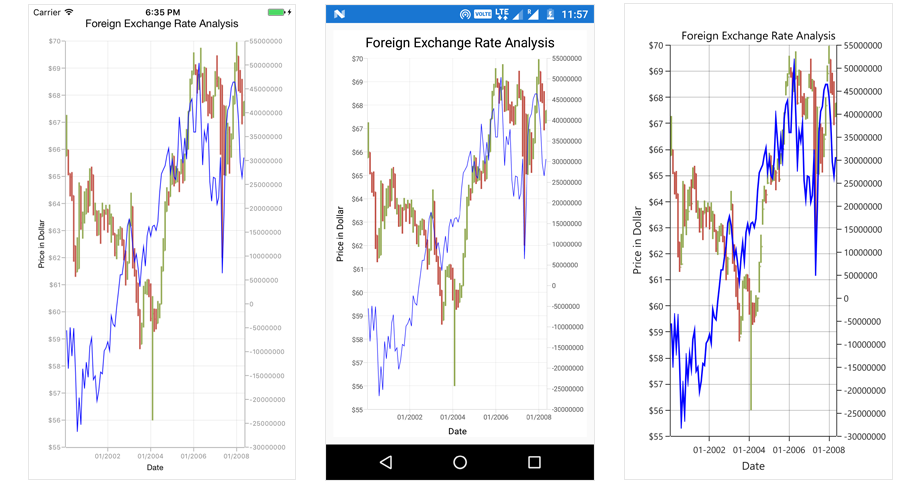
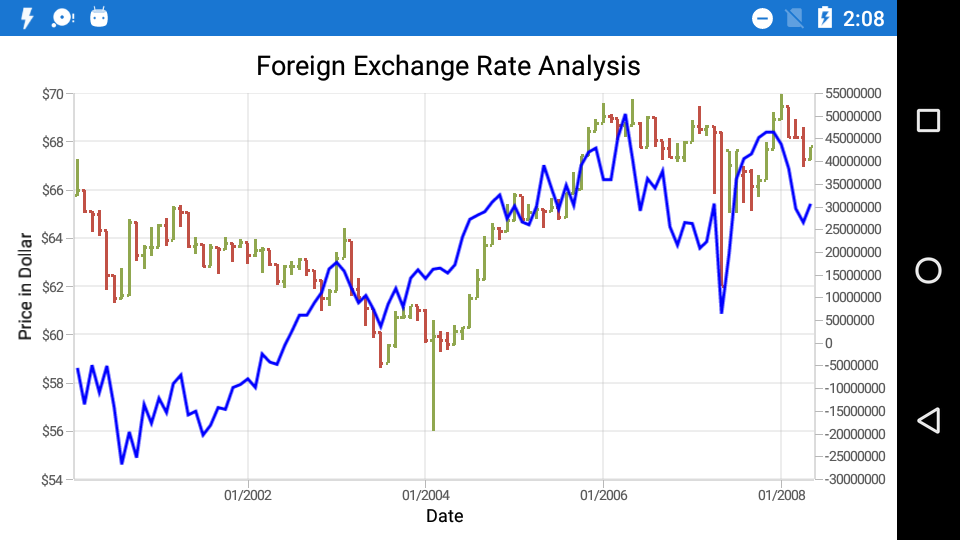
Images changed

diff --git a/Xamarin/SfChart/technicalindicators.md b/Xamarin/SfChart/technicalindicators.md
@@ -287,7 +287,7 @@ You can define the [`AverageTrueIndicator`](http://help.syncfusion.com/cr/cref_f
 <chart:SfChart>
 ...	
         <chart:SfChart.TechnicalIndicators>
-            <chart:AverageTrueIndicator ItemsSource="{Binding TechnicalIndicatorData}" Period="3" XBindingPath="Date" SignalLineColor="Purple" High="High" Low="Low" Open="Open" Close="Close"/>
+            <chart:AverageTrueIndicator ItemsSource="{Binding TechnicalIndicatorData}" Period="14" SignalLineColor="Blue" XBindingPath="XValue" High="High" Low="Low" Open="Open" Close="Close"/>
          </chart:SfChart.TechnicalIndicators>
 
 </chart:SfChart>
@@ -304,10 +304,10 @@ SfChart chart = new SfChart()
       {
           new AverageTrueIndicator()
           {
-              Period = 3,
-              SignalLineColor = Color.Purple,
+              Period = 14,
+              SignalLineColor = Color.Blue,
               ItemsSource = viewModel.TechnicalIndicatorData,
-              XBindingPath = "Date",
+              XBindingPath = "XValue",
               Open = "Open",
               High = "High",
               Low = "Low",
@@ -322,7 +322,7 @@ SfChart chart = new SfChart()
 
 The following screenshot illustrates an ATR indicator.
 
-![](technicalindicators_images/averagetrue.png)
+![](technicalindicators_images/averagetruerange.png)
 
 ## Simple moving average (SMA) indicator
 
@@ -337,7 +337,7 @@ The following code example demonstrates the usage of [`SimpleMovingAverageIndica
 <chart:SfChart>
 ...	
        <chart:SfChart.TechnicalIndicators>
-           <chart:SimpleMovingAverageIndicator ItemsSource="{Binding TechnicalIndicatorData}" Period="14" SignalLineColor="Purple" XBindingPath="XValue" High="High" Low="Low" Open="Open" Close="Close"/> 
+           <chart:SimpleMovingAverageIndicator ItemsSource="{Binding TechnicalIndicatorData}" Period="14" SignalLineColor="Blue" XBindingPath="XValue" High="High" Low="Low" Open="Open" Close="Close"/> 
         </chart:SfChart.TechnicalIndicators>
 
 </chart:SfChart>
@@ -354,7 +354,7 @@ SfChart chart = new SfChart()
           new SimpleMovingAverageIndicator()
           {
               Period = 14,
-              SignalLineColor = Color.Purple,
+              SignalLineColor = Color.Blue,
               ItemsSource = viewModel.TechnicalIndicatorData,
               XBindingPath = "XValue",
               Open = "Open",
@@ -388,7 +388,7 @@ To define the [`RSITechnicalIndicator`](http://help.syncfusion.com/cr/cref_files
 <chart:SfChart>
 ...	
         <chart:SfChart.TechnicalIndicators>
-            <chart:RSIIndicator ItemsSource="{Binding TechnicalIndicatorData}" Period="14" SignalLineColor="Purple" UpperLineColor="Blue" LowerLineColor="Red" XBindingPath="XValue" High="High" Low="Low" Open="Open" Close="Close"/>
+            <chart:RSIIndicator ItemsSource="{Binding TechnicalIndicatorData}" Period="14" SignalLineColor="Blue" UpperLineColor="Teal" LowerLineColor="Red" XBindingPath="XValue" High="High" Low="Low" Open="Open" Close="Close"/>
         </chart:SfChart.TechnicalIndicators>
 
 </chart:SfChart>
@@ -405,8 +405,8 @@ SfChart chart = new SfChart()
           new RSIIndicator()
           {
               Period = 14,
-              SignalLineColor = Color.Purple,
-              UpperLineColor = Color.Blue,
+              SignalLineColor = Color.Blue,
+              UpperLineColor = Color.Teal,
               LowerLineColor = Color.Red,
               ItemsSource = viewModel.TechnicalIndicatorData,
               XBindingPath = "XValue",
@@ -439,7 +439,7 @@ The following code example helps you to add [`AccumulationDistributionIndicator`
 <chart:SfChart>
 ...	
           <chart:SfChart.TechnicalIndicators>
-            <chart:AccumulationDistributionIndicator ItemsSource="{Binding TechnicalIndicatorData}" SignalLineColor="Purple" XBindingPath="XValue" Open="Open" High="High" Low="Low" Close="Close" Volume="Volume"/>
+            <chart:AccumulationDistributionIndicator ItemsSource="{Binding TechnicalIndicatorData}" SignalLineColor="Blue" XBindingPath="XValue" Open="Open" High="High" Low="Low" Close="Close" Volume="Volume"/>
         </chart:SfChart.TechnicalIndicators>
 
 </chart:SfChart>
@@ -455,7 +455,7 @@ SfChart chart = new SfChart()
       {
           new AccumulationDistributionIndicator()
           {
-              SignalLineColor = Color.Purple,
+              SignalLineColor = Color.Blue,
               ItemsSource = viewModel.TechnicalIndicatorData,
               XBindingPath = "XValue",
               Open = "Open",
@@ -475,19 +475,6 @@ The following screenshot illustrates an accumulation distribution technical indi
 
 ![](technicalindicators_images/accumulationdistribution.png)
 
-{% tabs %} 
-
-{% highlight xaml %}
-
-
-{% endhighlight %}
-
-{% highlight c# %}
-
-
-{% endhighlight %}
-
-{% endtabs %}
 
 ## Momentum indicator
 
@@ -501,7 +488,7 @@ You can define [`MomentumIndicator`](http://help.syncfusion.com/cr/cref_files/xa
 <chart:SfChart>
    ...	
         <chart:SfChart.TechnicalIndicators>
-            <chart:MomentumIndicator ItemsSource="{Binding TechnicalIndicatorData}" Period="14" SignalLineColor="Purple" UpperLineColor="Red" XBindingPath="XValue" High="High" Low="Low" Open="Open" Close="Close">
+            <chart:MomentumIndicator ItemsSource="{Binding TechnicalIndicatorData}" Period="14" SignalLineColor="Blue" UpperLineColor="Red" XBindingPath="XValue" High="High" Low="Low" Open="Open" Close="Close">
             </chart:MomentumIndicator>
         </chart:SfChart.TechnicalIndicators>
    ...
@@ -520,8 +507,8 @@ SfChart chart = new SfChart()
           new MomentumIndicator()
           {
               Period = 14,
-              SignalLineColor = Color.Purple,
-              UpperLineColor = Color.Blue,
+              SignalLineColor = Color.Blue,
+              UpperLineColor = Color.Red,
               ItemsSource = viewModel.TechnicalIndicatorData,
               XBindingPath = "XValue",
               Open = "Open",
@@ -569,7 +556,7 @@ SfChart chart = new SfChart()
           new StochasticIndicator()
           {
               Period = 14,
-              SignalLineColor = Color.Purple,
+              SignalLineColor = Color.Yellow,
               UpperLineColor = Color.Red,
               LowerLineColor = Color.Teal,
               PeriodLineColor = Color.DarkBlue,
@@ -601,7 +588,7 @@ The [`ExponentialMovingAverageIndicator`](https://help.syncfusion.com/cr/cref_fi
 <chart:SfChart>
 ...	
         <chart:SfChart.TechnicalIndicators>
-            <chart:ExponentialMovingAverageIndicator ItemsSource="{Binding TechnicalIndicatorData}" Period="14" SignalLineColor="Purple" XBindingPath="XValue" High="High" Low="Low" Open="Open" Close="Close"/>     
+            <chart:ExponentialMovingAverageIndicator ItemsSource="{Binding TechnicalIndicatorData}" Period="14" SignalLineColor="Blue" XBindingPath="XValue" High="High" Low="Low" Open="Open" Close="Close"/>     
         </chart:SfChart.TechnicalIndicators>
 </chart:SfChart>
 
@@ -618,7 +605,7 @@ SfChart chart = new SfChart()
           new ExponentialMovingAverageIndicator()
           {
               Period = 14,
-              SignalLineColor = Color.Purple,
+              SignalLineColor = Color.Blue,
               ItemsSource = viewModel.TechnicalIndicatorData,
               XBindingPath = "XValue",
               Open = "Open",
@@ -647,7 +634,7 @@ The [`TriangularMovingAverageIndicator`](http://help.syncfusion.com/cr/cref_file
 <chart:SfChart>
 ...	
         <chart:SfChart.TechnicalIndicators>
-            <chart:TriangularMovingAverageIndicator ItemsSource="{Binding TechnicalIndicatorData}" Period="14" SignalLineColor="Purple" XBindingPath="XValue" High="High" Low="Low" Open="Open" Close="Close"/>      
+            <chart:TriangularMovingAverageIndicator ItemsSource="{Binding TechnicalIndicatorData}" Period="14" SignalLineColor="Blue" XBindingPath="XValue" High="High" Low="Low" Open="Open" Close="Close"/>      
         </chart:SfChart.TechnicalIndicators>
 </chart:SfChart>
 
@@ -664,7 +651,7 @@ SfChart chart = new SfChart()
           new TriangularMovingAverageIndicator()
           {
               Period = 14,
-              SignalLineColor = Color.Purple,
+              SignalLineColor = Color.Blue,
               ItemsSource = viewModel.TechnicalIndicatorData,
               XBindingPath = "XValue",
               Open = "Open",
@@ -696,7 +683,7 @@ You can define the [`BollingerBandIndicator`](http://help.syncfusion.com/cr/cref
 <chart:SfChart>
 ...	
         <chart:SfChart.TechnicalIndicators>
-            <chart:BollingerBandIndicator ItemsSource="{Binding TechnicalIndicatorData}" Period="14" SignalLineColor="Purple" UpperLineColor="Red" LowerLineColor="Blue" XBindingPath="XValue" High="High" Low="Low" Open="Open" Close="Close"/>
+            <chart:BollingerBandIndicator ItemsSource="{Binding TechnicalIndicatorData}" Period="14" SignalLineColor="Blue" UpperLineColor="Red" LowerLineColor="Teal" XBindingPath="XValue" High="High" Low="Low" Open="Open" Close="Close"/>
         </chart:SfChart.TechnicalIndicators>
 </chart:SfChart>
 
@@ -713,9 +700,9 @@ SfChart chart = new SfChart()
           new BollingerBandIndicator()
           {
               Period = 14,
-              SignalLineColor = Color.Purple,
+              SignalLineColor = Color.Blue,
               UpperLineColor = Color.Red,
-              LowerLineColor = Color.Blue,
+              LowerLineColor = Color.Teal,
               ItemsSource = viewModel.TechnicalIndicatorData,
               XBindingPath = "XValue",
               Open = "Open",
@@ -748,7 +735,7 @@ You can specify the MACDTechnicalIndicator using the following code example.
 <chart:SfChart>
 ...	
         <chart:SfChart.TechnicalIndicators>
-            <chart:MACDIndicator ItemsSource="{Binding TechnicalIndicatorData}" MACDType="Both" ShortPeriod="2" LongPeriod="10" Trigger="14" SignalLineColor="Purple" XBindingPath="XValue" High="High" Low="Low" Open="Open" Close="Close"/> 
+            <chart:MACDIndicator ItemsSource="{Binding TechnicalIndicatorData}" MACDType="Both" ShortPeriod="2" LongPeriod="10" Trigger="14" SignalLineColor="Blue" HistogramColor="LightSkyBlue" MACDLineColor="Orange" XBindingPath="XValue" High="High" Low="Low" Open="Open" Close="Close"/>
         </chart:SfChart.TechnicalIndicators>
 </chart:SfChart>
 
@@ -768,7 +755,9 @@ SfChart chart = new SfChart()
               ShortPeriod = 2,
               LongPeriod = 10,
               Trigger = 14,
-              SignalLineColor = Color.Purple,
+              indicator.SignalLineColor = Color.Blue,
+              indicator.HistogramColor = Color.LightSkyBlue,
+              indicator.MACDLineColor = Color.Orange,
               ItemsSource = viewModel.TechnicalIndicatorData,
               XBindingPath = "XValue",
               Open = "Open",
